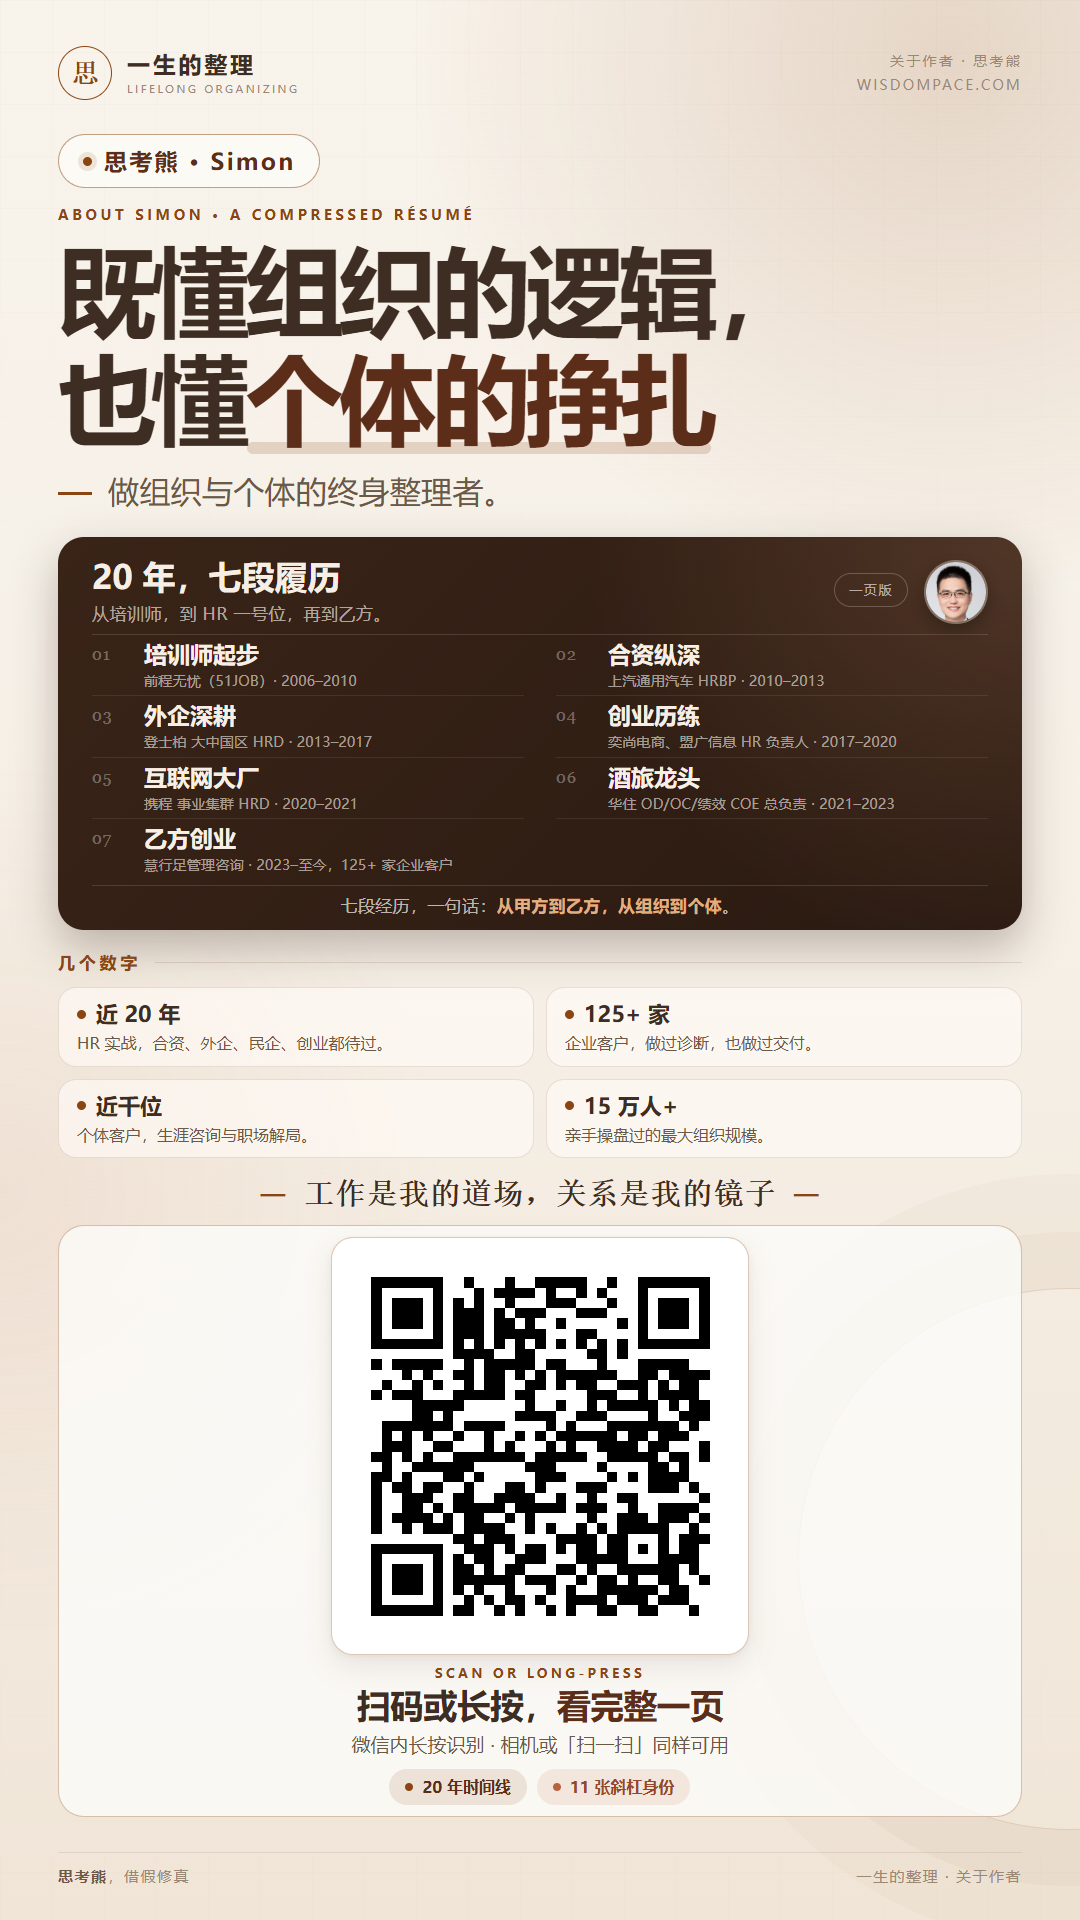
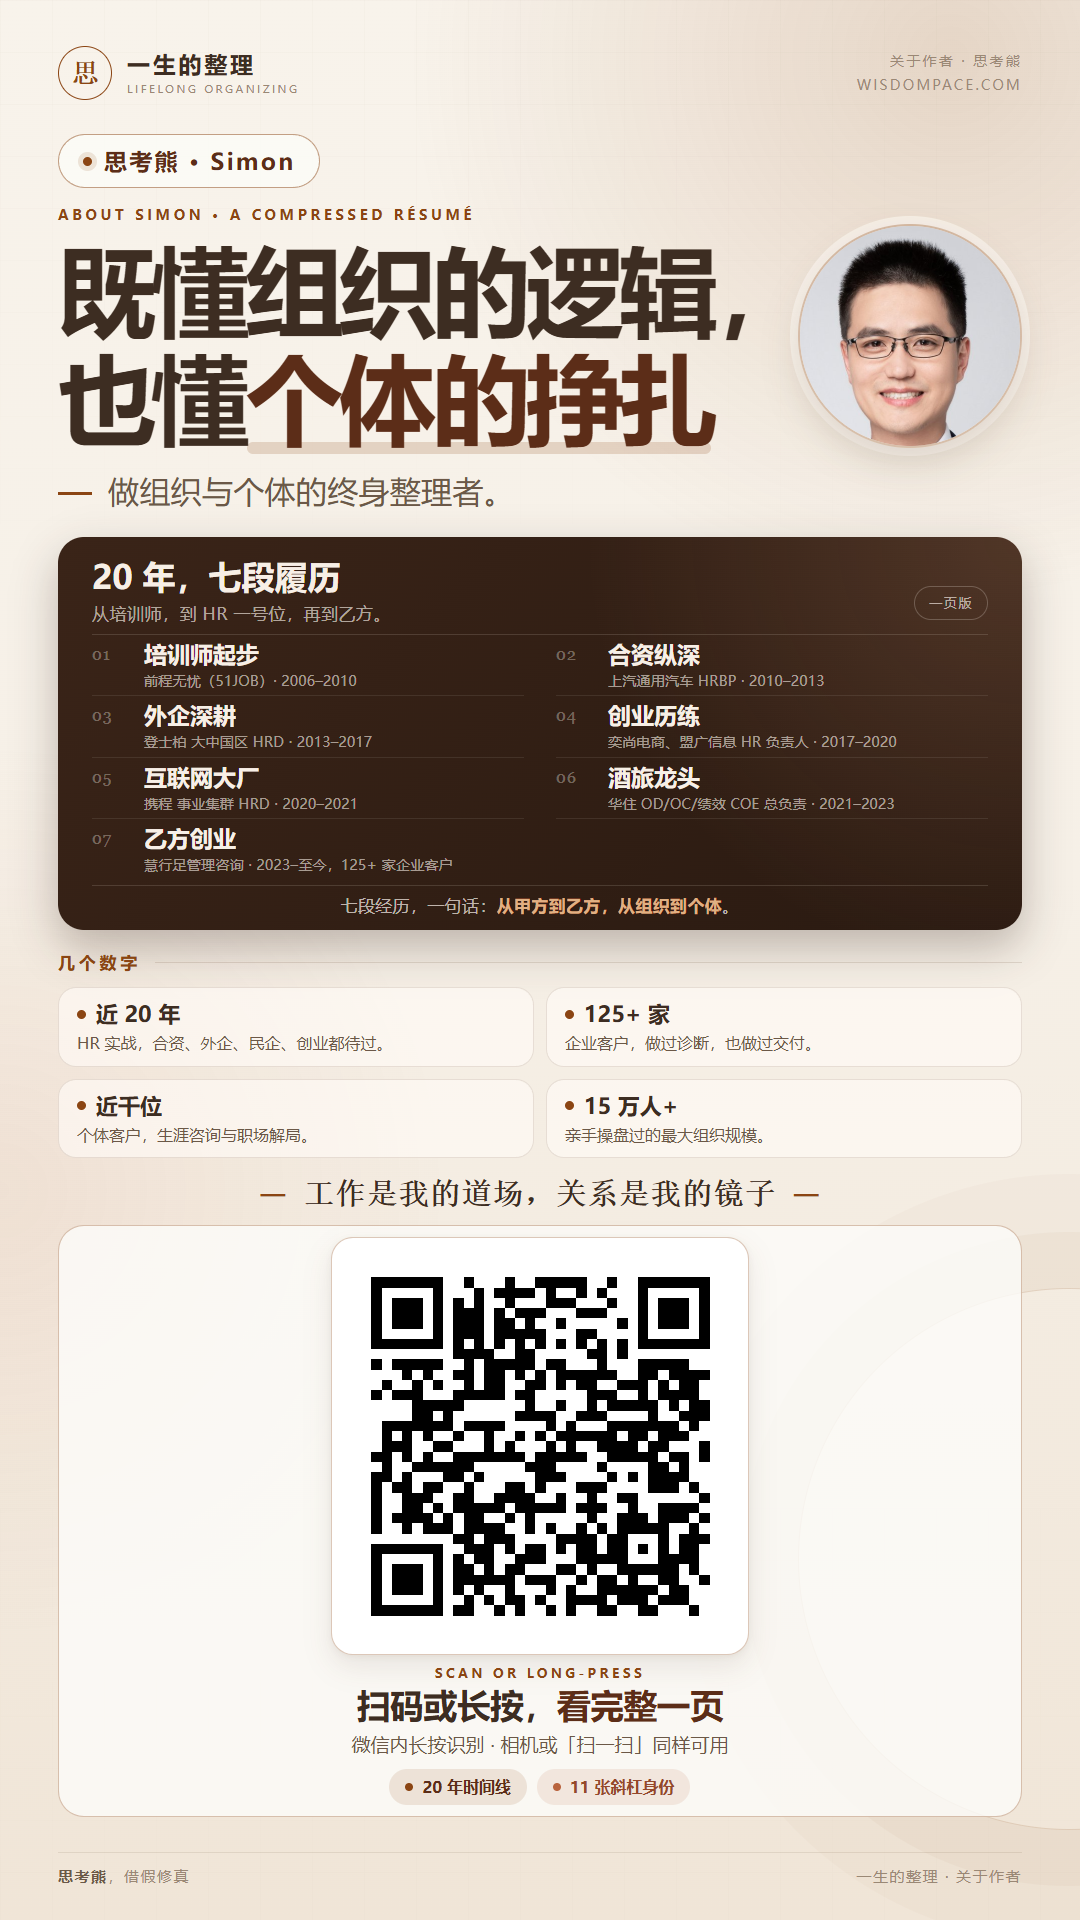
posters: 头像移到主视觉右侧与两行标题同高，卡头恢复单标签

Changed region(s): [[0.7639, 0.0938, 0.9472, 0.25], [0.8556, 0.2812, 0.9167, 0.3438], [0.7944, 0.2812, 0.825, 0.3125]]

diff --git a/posters/about-simon-poster.html b/posters/about-simon-poster.html
@@ -219,22 +219,21 @@
       font-size: 13px;
       letter-spacing: 0.12em;
     }
-    /* 卡头右侧：一页版标签 + 小圆头像（头像与工具海报的圆形印章同构） */
-    .head-right {
-      display: flex;
-      align-items: center;
-      gap: 16px;
-      flex: 0 0 auto;
-    }
-    .head-avatar {
-      width: 64px;
-      height: 64px;
+    /* 主视觉右侧的圆头像：与两行标题同高，右对齐页边 */
+    .hero-avatar {
+      position: absolute;
+      top: 124px;
+      right: 0;
+      width: 224px;
+      height: 224px;
       overflow: hidden;
-      border: 2px solid rgba(247, 239, 230, 0.34);
+      border: 2px solid rgba(139, 69, 19, 0.26);
       border-radius: 50%;
-      box-shadow: 0 6px 16px rgba(0, 0, 0, 0.28);
+      box-shadow:
+        0 16px 36px rgba(74, 48, 32, 0.16),
+        0 0 0 8px rgba(255, 251, 246, 0.55);
     }
-    .head-avatar img {
+    .hero-avatar img {
       display: block;
       width: 100%;
       height: 100%;
@@ -491,6 +490,9 @@
       <p class="kicker">ABOUT SIMON · A COMPRESSED RÉSUMÉ</p>
       <h1>既懂组织的逻辑，<br />也懂<span class="accent">个体的挣扎</span></h1>
       <p class="slogan">做组织与个体的终身整理者。</p>
+      <div class="hero-avatar">
+        <img src="avatar-simon.png" alt="思考熊 Simon" />
+      </div>
     </section>
 
     <section class="stage-card">
@@ -499,12 +501,7 @@
           <h2>20 年，七段履历</h2>
           <p>从培训师，到 HR 一号位，再到乙方。</p>
         </div>
-        <div class="head-right">
-          <span class="stage-tag">一页版</span>
-          <div class="head-avatar">
-            <img src="avatar-simon.png" alt="思考熊 Simon" />
-          </div>
-        </div>
+        <span class="stage-tag">一页版</span>
       </div>
       <div class="stages">
         <div class="stage">
